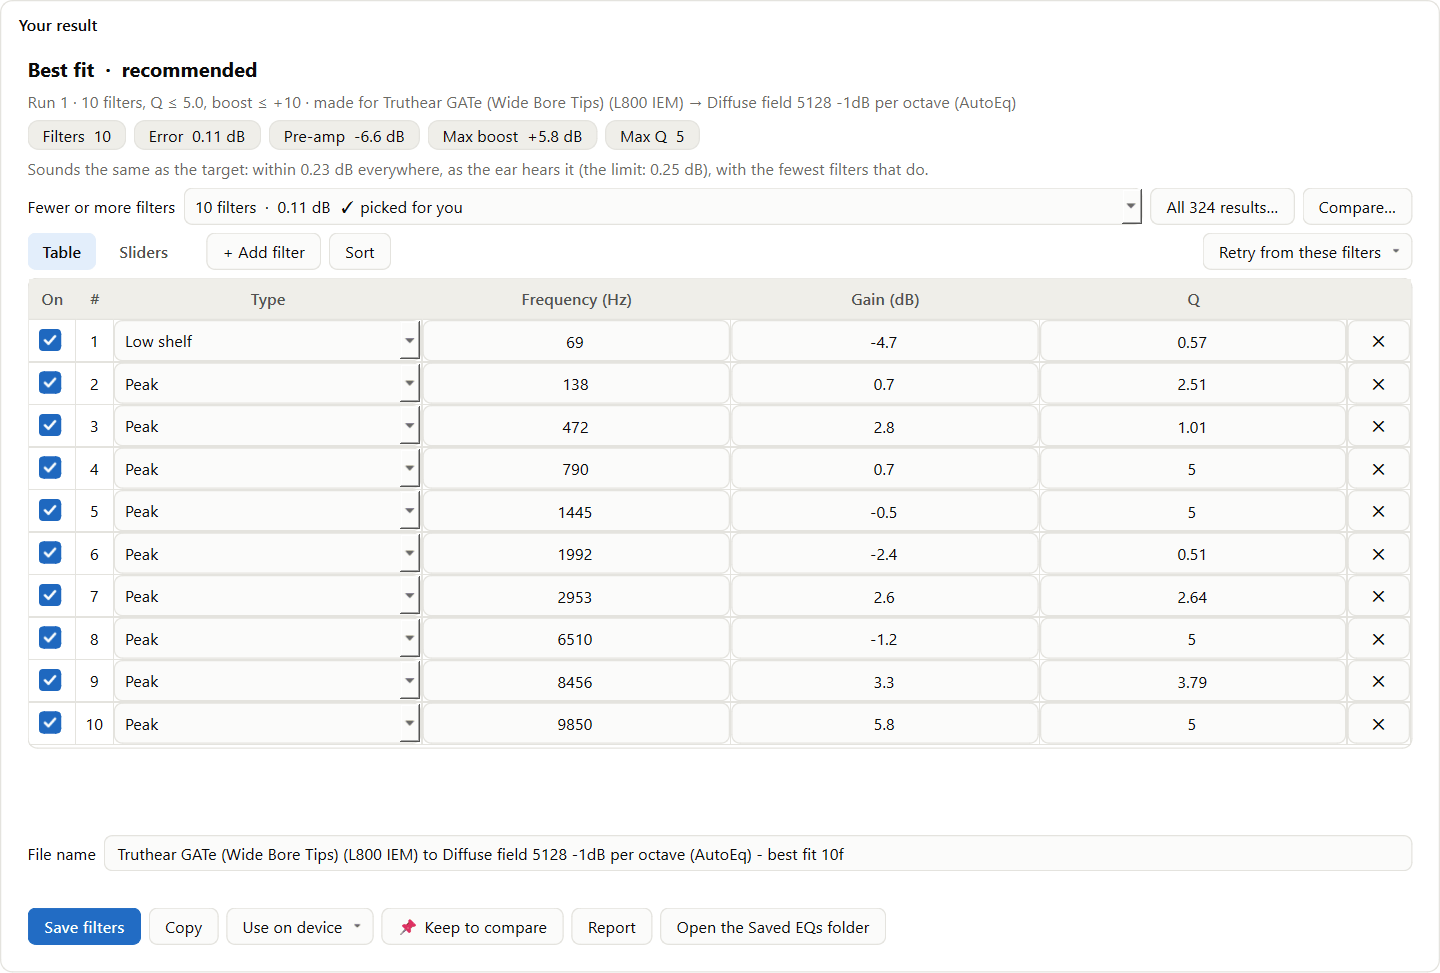
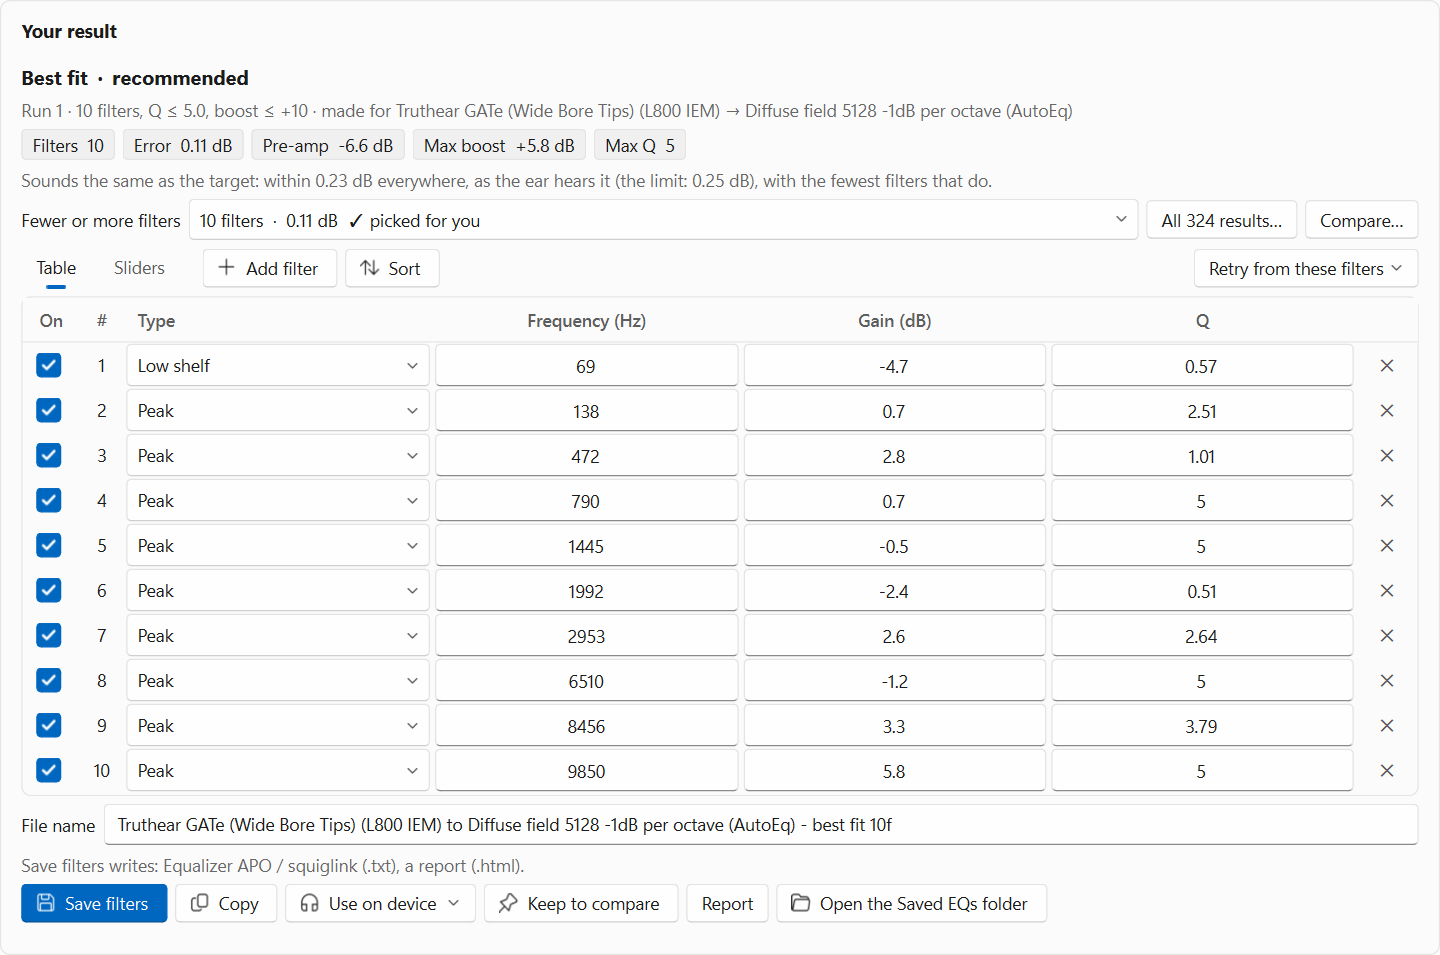
README: its GIF and pictures retaken in the Windows 11 look, and the look described
The README's GIF (making an EQ), the result card and Devices drawn again from a test copy in the new look (the
plain background: Mica is Windows' own, tinted by each person's desktop picture). README.md lists the look among
the features; README.txt says the main buttons and what's chosen take your Windows accent colour, and that the
window's background is Mica on Windows 11.

Changed region(s): [[0.0, 0.0, 0.9688, 0.9717], [0.7812, 0.2126, 0.9688, 0.3037]]

diff --git a/README.md b/README.md
@@ -29,8 +29,10 @@ It's a native desktop app (Python and Qt), not a web page, and works offline.
   into a measurement, reading the axes with Windows' own text reader.
 - **Device switching:** profiles for each device, a tray icon, a hotkey, notices, and a check that asks Equalizer
   APO whether the EQ really plays.
-- **Help built in:** a guided tour with demos, Help for every term and setting (F1 on any control), light and dark
-  themes, keyboard and screen-reader support.
+- **Help built in:** a guided tour with demos, Help for every term and setting (F1 on any control), keyboard and
+  screen-reader support.
+- **Windows 11's look:** its colours, type and symbols, light or dark as Windows is, in your Windows accent colour,
+  with Mica behind the window (Windows 10 gets the same look on a plain background).
 
 ## Screenshots
 
